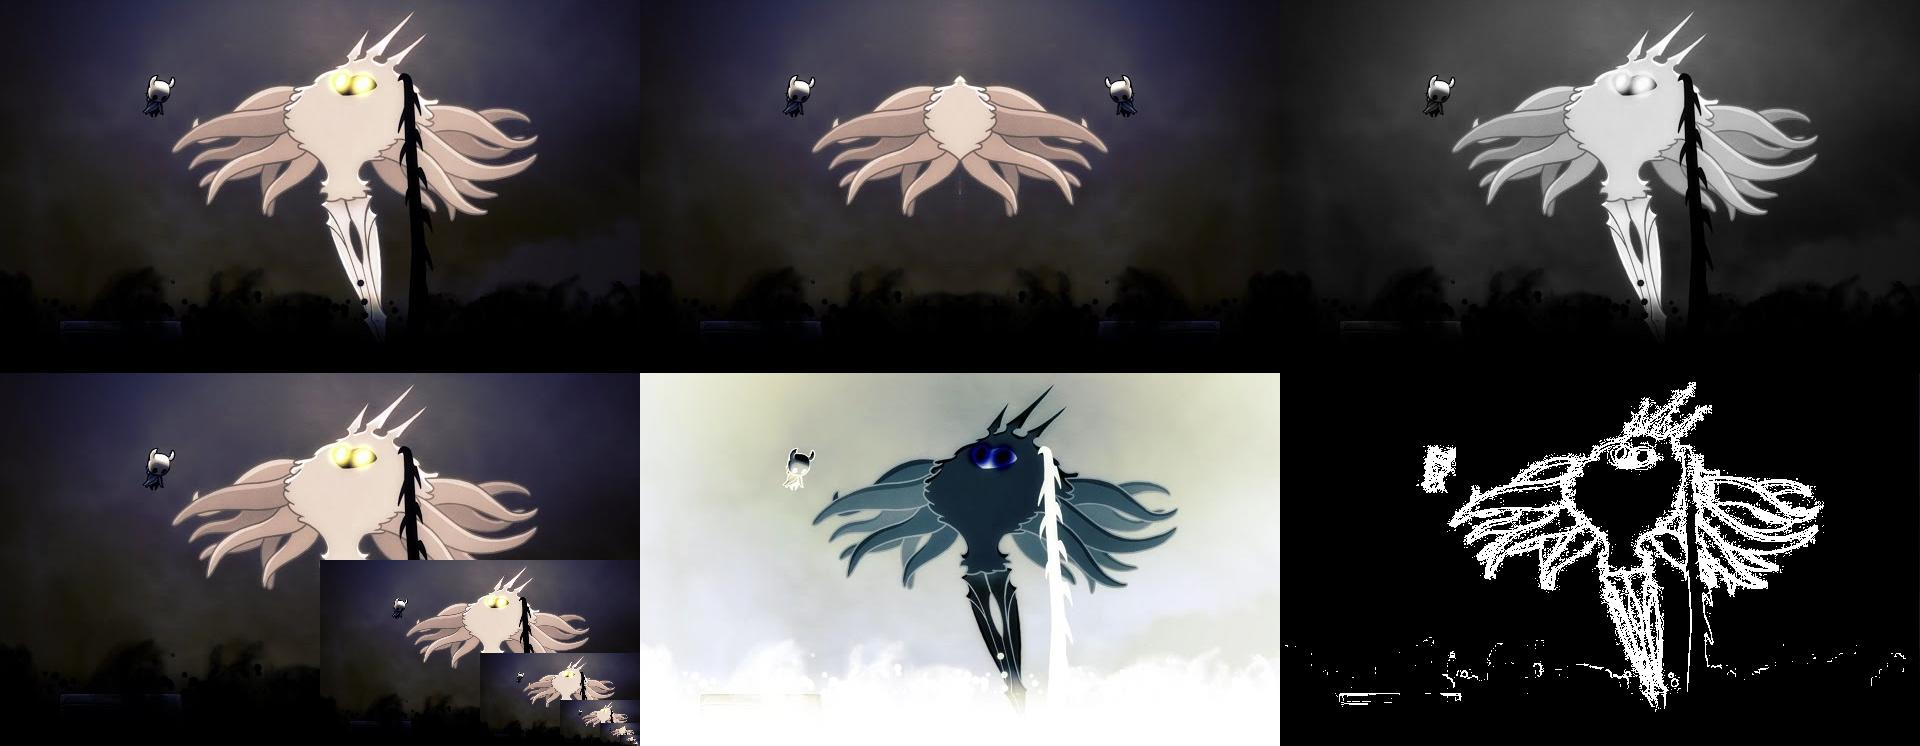
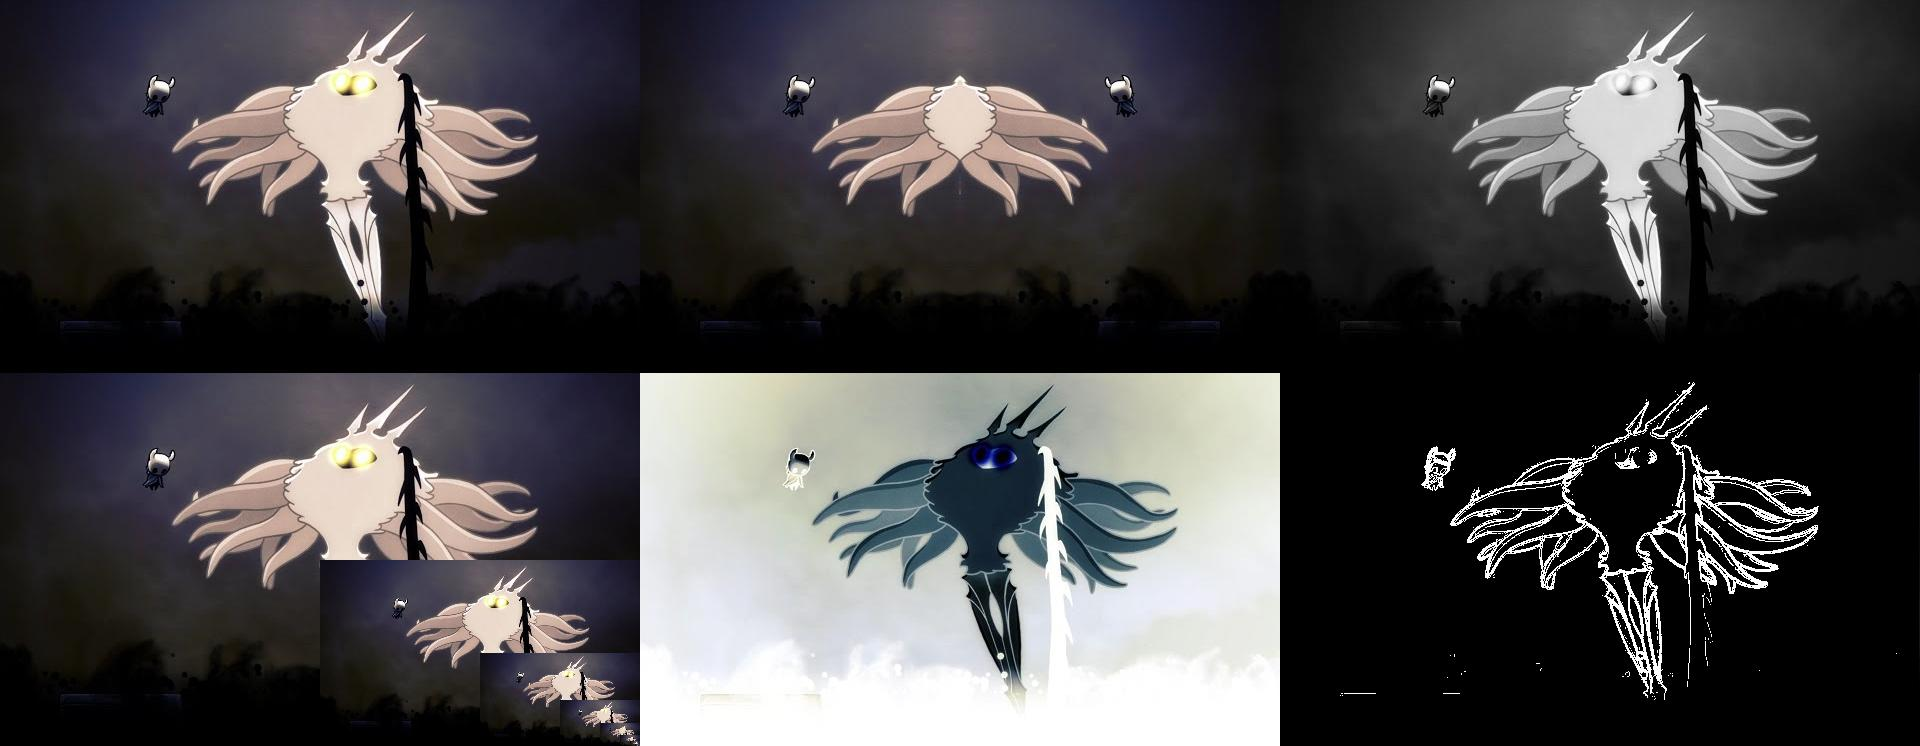
DONE!

Changed region(s): [[0.75, 0.5241, 0.9375, 0.9558], [0.6875, 0.9249, 0.7188, 0.9558]]

diff --git a/ColorLabs17/College.java b/ColorLabs17/College.java
@@ -35,7 +35,7 @@ public class College
 
         // edge detection
         Pic edge = new Pic(basePath);
-        edge.edgeDetection(5.0);
+        edge.edgeDetection(12.5);
         canvas.copy(edge, 2 * tileW, tileH);
 
         canvas.write("images/final_collage.jpg");

diff --git a/ColorLabs17/Pixel.java b/ColorLabs17/Pixel.java
@@ -212,8 +212,6 @@ public class Pixel
     updatePicture(this.getAlpha(),red,green,blue);
   }
   
- 
-  
   /**
    * Method to update the picture based on the passed color
    * values for this pixel
